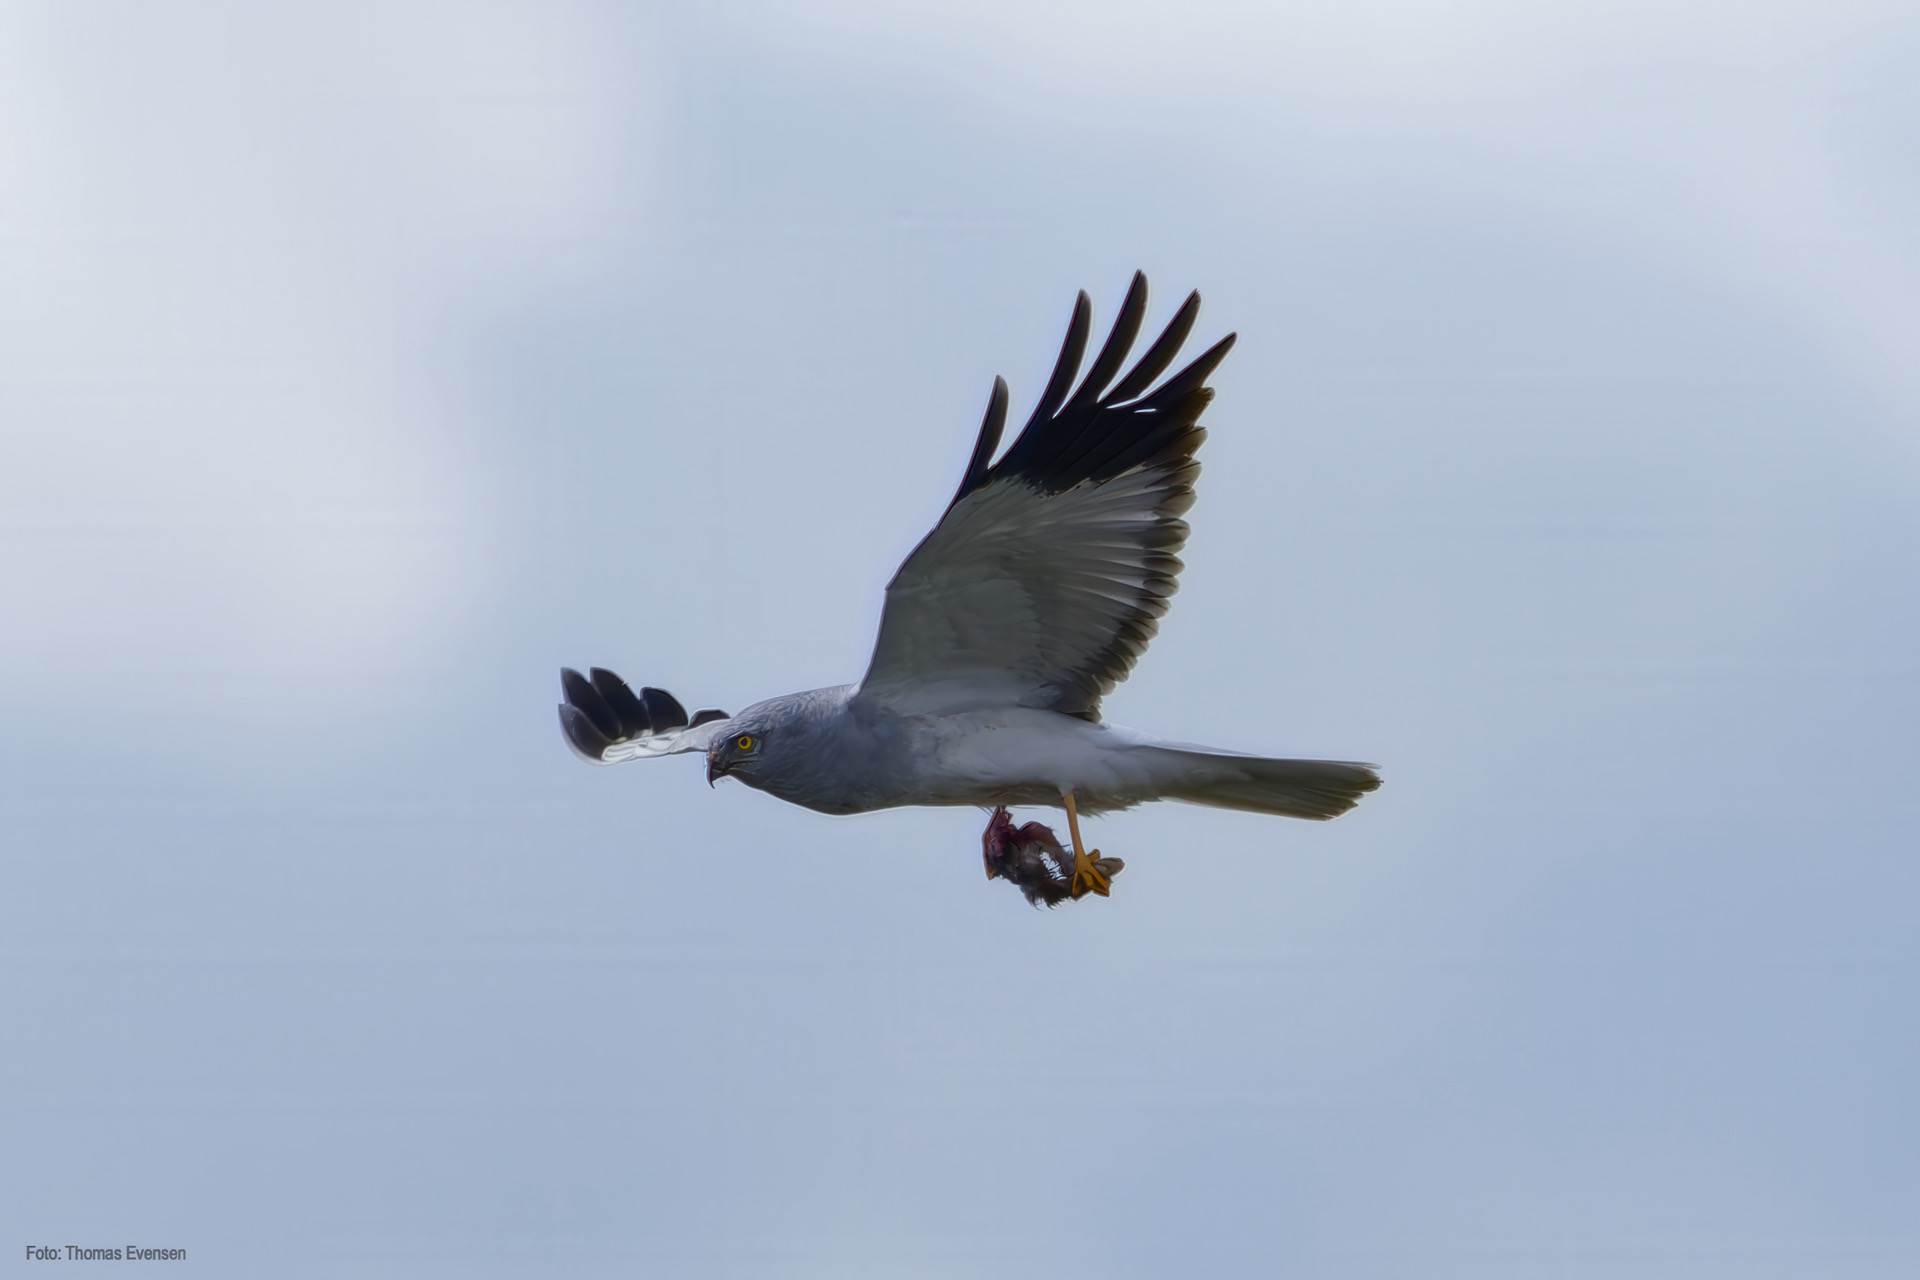
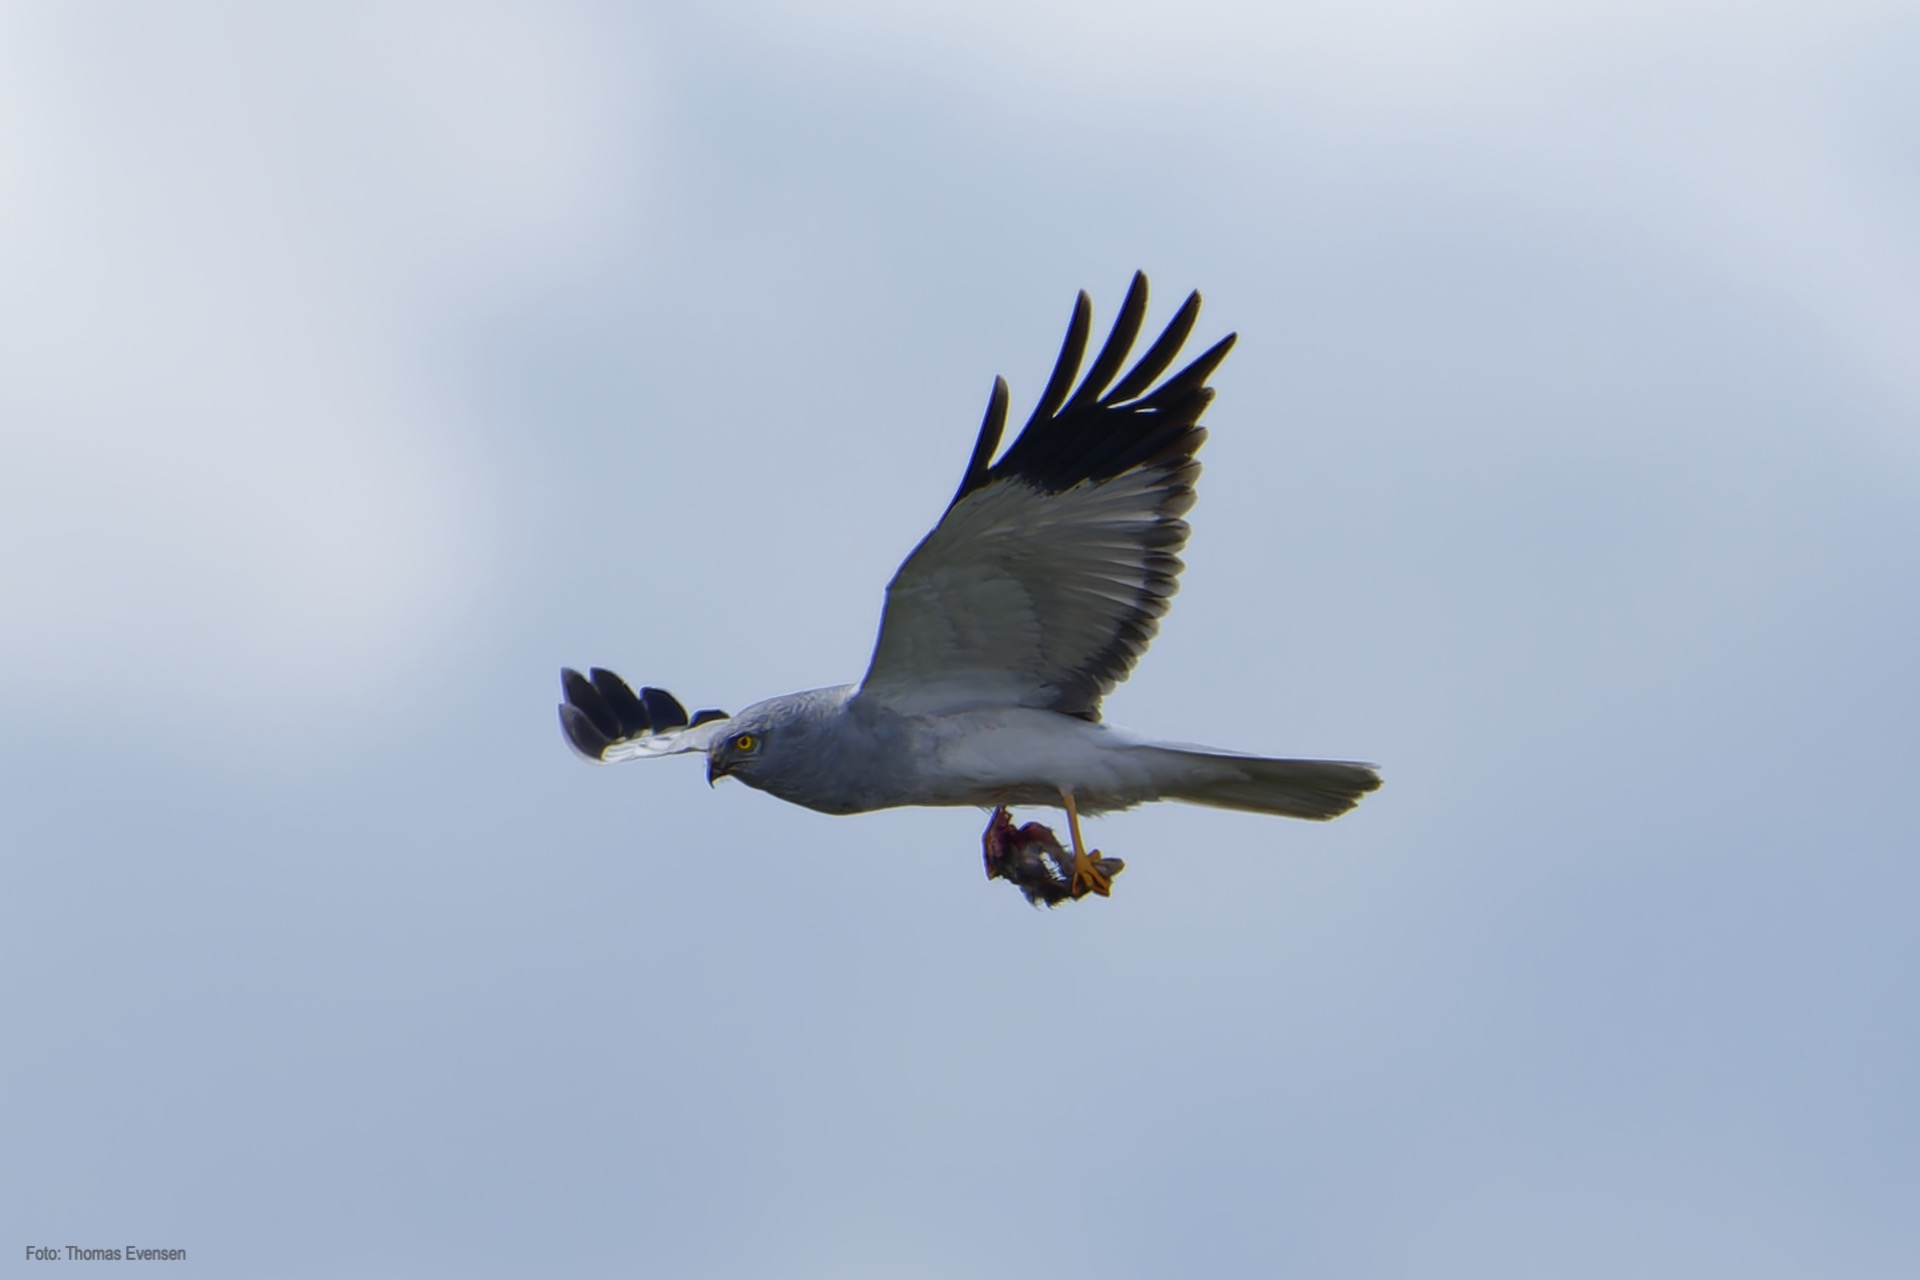
update

Changed region(s): [[0.5, 0.2188, 0.6562, 0.375], [0.5, 0.625, 0.5938, 0.6875]]

diff --git a/content/posts/henharrier.md b/content/posts/henharrier.md
@@ -28,5 +28,5 @@ The Hen Harrier is critically endangered in Norway. According to official number
 {{< image src="/images/birds/henharrier/DSC04968_DxO.jpg"  caption="" src_s="/images/birds/henharrier/thumbs/DSC04968_DxO.jpg" src_l="/images/birds/henharrier/large/DSC04968_DxO.jpg" >}}
 {{< image src="/images/birds/henharrier/DSC04757_DxO.jpg"  caption="" src_s="/images/birds/henharrier/thumbs/DSC04757_DxO.jpg" src_l="/images/birds/henharrier/large/DSC04757_DxO.jpg" >}}
 {{< image src="/images/birds/henharrier/_DSC1649_DxO.jpg"  caption="Hen Harrier, male with prey for delivery." src_s="/images/birds/henharrier/thumbs/_DSC1649_DxO.jpg" src_l="/images/birds/henharrier/large/_DSC1649_DxO.jpg" >}}
-{{< image src="/images/birds/henharrier/_DSC8692_DxO.jpg"  caption="Hen Harrier, male, hunting." src_s="/images/birds/henharrier/thumbs/_DSC8692_DxO.jpg" src_l="/images/birds/henharrier/large/_DSC8692_DxO.jpg" >}}
+{{< image src="/images/birds/henharrier/_DSC8711_DxO.jpg"  caption="Hen Harrier, male, hunting." src_s="/images/birds/henharrier/thumbs/_DSC8711_DxO.jpg" src_l="/images/birds/henharrier/large/_DSC8711_DxO.jpg" >}}
 {{< image src="/images/birds/henharrier/_DSC9885_DxO.jpg"  caption="Hen Harrier, female." src_s="/images/birds/henharrier/thumbs/_DSC9885_DxO.jpg" src_l="/images/birds/henharrier/large/_DSC9885_DxO.jpg" >}}
